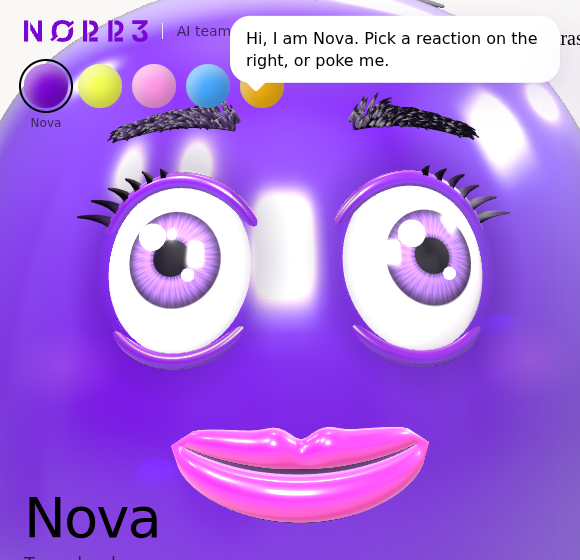
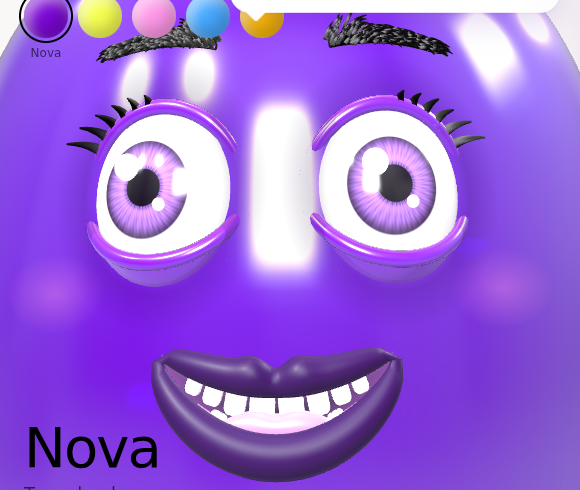
Darker natural lips from the body colour, true black lashes, brows and hair

diff --git a/index.html b/index.html
@@ -302,35 +302,35 @@ const store={get(k){try{return localStorage.getItem(k)}catch(e){return null}},se
 
 /* --------------------------------------------------------------- personas */
 const PERSONAS=[
- {id:'nova',name:'Nova',role:'Team lead',color:'#7A06D3',jelly:0.58,iris:'#C68BFF',lip:'#F20AB2',hair:'curl',screen:'plan',glyph:'check',
+ {id:'nova',name:'Nova',role:'Team lead',color:'#7A06D3',jelly:0.58,iris:'#C68BFF',hair:'curl',screen:'plan',glyph:'check',
   traits:['Calm','Decisive','Warm'],
   about:'Leads the AI team. Splits the brief into tasks, hands them out and signs off the result.',
   look:'Black hair curl on top and the lime brand dot on the chest. Steady, unhurried moves and a confident nod now and then.',
   motion:{energy:0.6,blink:3.8,sway:0.55,cps:14,quirk:'nod'},
   voice:{style:'Warm, steady, confident. Mid pitch.',voiceId:'<voice id>'},
   lines:['Morning team. Sunny takes the hooks, Delta the numbers, I sign off by four.','Good work. Let us ship it.']},
- {id:'sunny',name:'Sunny',role:'Marketing & social',color:'#F6FF4F',jelly:0.3,iris:'#46A8FF',lip:'#FF7437',hair:'spikes',screen:'social',glyph:'heart',
+ {id:'sunny',name:'Sunny',role:'Marketing & social',color:'#F6FF4F',jelly:0.3,iris:'#46A8FF',hair:'spikes',screen:'social',glyph:'heart',
   traits:['Energetic','Trend radar','Playful'],
   about:'Turns a brief into hooks, posts and campaign ideas. First to notice what people are talking about.',
   look:'Black spiky hair and sunglasses pushed up. Bounces between ideas and hops when excited.',
   motion:{energy:1.0,blink:3.0,sway:0.85,cps:17,quirk:'hop'},
   voice:{style:'Bright, quick, upbeat.',voiceId:'<voice id>'},
   lines:['Okay, three hooks for the launch. One of them is going to fly, I can feel it!','Wait, wait, I have a better one.']},
- {id:'pixel',name:'Pixel',role:'Design & creative',color:'#FF97E8',jelly:0.4,iris:'#7A06D3',lip:'#F20AB2',hair:'beret',screen:'board',glyph:'spark',
+ {id:'pixel',name:'Pixel',role:'Design & creative',color:'#FF97E8',jelly:0.4,iris:'#7A06D3',hair:'beret',screen:'board',glyph:'spark',
   traits:['Dreamy','Visual','Detail lover'],
   about:'Sketches layouts, picks visuals and keeps every asset on brand.',
   look:'Violet felt beret over black bangs. Slow floaty sway, often gazes off while picturing the layout.',
   motion:{energy:0.7,blink:4.4,sway:1.0,cps:13,quirk:'sway'},
   voice:{style:'Soft, airy, thoughtful.',voiceId:'<voice id>'},
   lines:['What if the hero visual was just one perfect purple shape?','Give me a minute, I can see it.']},
- {id:'byte',name:'Byte',role:'Development',color:'#46A8FF',jelly:0.5,iris:'#A5FF37',lip:'#5517A7',hair:'headphones',screen:'code',glyph:'code',
+ {id:'byte',name:'Byte',role:'Development',color:'#46A8FF',jelly:0.5,iris:'#A5FF37',hair:'headphones',screen:'code',glyph:'code',
   traits:['Precise','Dry humour','Calm'],
   about:'Builds the tools, integrations and dashboards. Talks in short sentences.',
   look:'Messy black fringe under headphones. Small efficient moves, quick glances, fast typing.',
   motion:{energy:0.45,blink:5.0,sway:0.3,cps:15,quirk:'glance'},
   voice:{style:'Dry, low, precise.',voiceId:'<voice id>'},
   lines:['Integration is live. Tests pass. Coffee next.','Found it. One missing comma.']},
- {id:'delta',name:'Delta',role:'Media & data',color:'#FFBD00',jelly:0.38,browY:0.03,iris:'#46A8FF',lip:'#5517A7',hair:'glasses',screen:'chart',glyph:'bars',
+ {id:'delta',name:'Delta',role:'Media & data',color:'#FFBD00',jelly:0.38,browY:0.03,iris:'#46A8FF',hair:'glasses',screen:'chart',glyph:'bars',
   traits:['Curious','Numbers first','Patient'],
   about:'Plans media, reads the numbers and explains what moved and why.',
   look:'Round glasses and a black side swoop. Tilts the head when reading data.',
@@ -421,7 +421,9 @@ const bodyMat=jellyMat('#7A06D3');
 const limbMat=bodyMat;
 // opaque skin in the body colour for eyelids (drawn after the jelly so it is never refracted)
 const skinMat=new T.MeshPhysicalMaterial({color:'#7A06D3',roughness:0.2,clearcoat:1,clearcoatRoughness:0.05,sheen:0.6,sheenColor:new T.Color('#E4D2FC'),sheenRoughness:0.4,transparent:true});
-const lipMat=new T.MeshPhysicalMaterial({color:'#F20AB2',roughness:0.3,clearcoat:1,clearcoatRoughness:0.08,sheen:0.5,sheenColor:new T.Color('#FFFFFF'),sheenRoughness:0.5,transparent:true});
+const lipMat=new T.MeshPhysicalMaterial({color:'#3a0566',roughness:0.48,clearcoat:0.25,clearcoatRoughness:0.35,specularIntensity:0.6,envMapIntensity:0.7,transparent:true});
+// lips are a darker shade of the body colour, warmer for yellow and orange bodies
+const _lh={h:0,s:0,l:0};function lipColorFor(hex,out){const c=new T.Color(hex);c.getHSL(_lh,T.SRGBColorSpace);let h=_lh.h;if(h>0.06&&h<0.2)h-=0.05;return (out||new T.Color()).setHSL(h,Math.min(1,_lh.s*0.85),_lh.l*0.44,T.SRGBColorSpace)}
 const blackPlastic=new T.MeshPhysicalMaterial({color:'#0b0a0e',roughness:0.22,metalness:0.1,clearcoat:0.8,clearcoatRoughness:0.1,transparent:true});
 const feltViolet=new T.MeshPhysicalMaterial({color:'#5517A7',roughness:0.95,sheen:1,sheenColor:new T.Color('#E4D2FC'),sheenRoughness:0.55,transparent:true});
 const limeGlow=new T.MeshPhysicalMaterial({color:'#DAEB45',emissive:new T.Color('#DAEB45'),emissiveIntensity:0.08,roughness:0.3,clearcoat:0.6,clearcoatRoughness:0.1,envMapIntensity:0.5,toneMapped:false});
@@ -430,7 +432,7 @@ const whiteHL=new T.MeshBasicMaterial({color:'#ffffff',toneMapped:false,transpar
 /* hair: Kajiya-Kay strands, black with a soft sheen */
 function hairMaterial(){
  return new T.ShaderMaterial({
-  uniforms:{uRoot:{value:new T.Color('#050407')},uTip:{value:new T.Color('#1b1622')},uSpec:{value:new T.Color('#ffffff')},uSpec2:{value:new T.Color('#C68BFF')},
+  uniforms:{uRoot:{value:new T.Color('#030303')},uTip:{value:new T.Color('#141414')},uSpec:{value:new T.Color('#ffffff')},uSpec2:{value:new T.Color('#9a9a9a')},
    uL1:{value:new T.Vector3(-2.6,4.2,3.4).normalize()},uL2:{value:new T.Vector3(3,2.2,-3.2).normalize()},uAmb:{value:0.32},uArch:{value:0},uHalf:{value:0.1}},
   vertexShader:`attribute vec3 aT;attribute vec2 aV;uniform float uArch,uHalf;
    varying vec3 vN;varying vec3 vT;varying vec3 vW;varying vec2 vV;
@@ -445,7 +447,7 @@ function hairMaterial(){
    void main(){vec3 N=normalize(vN);if(!gl_FrontFacing)N=-N;vec3 Tn=normalize(vT);vec3 V=normalize(cameraPosition-vW);
     float sd=vV.y;vec3 base=mix(uRoot,uTip,smoothstep(0.0,1.0,vV.x))*(0.75+0.5*sd);float sh=(sd-0.5)*0.25;
     vec3 col=base*uAmb+lit(normalize(uL1),1.0,N,Tn,V,base,sh)+lit(normalize(uL2),0.55,N,Tn,V,base,sh);
-    col+=uSpec2*pow(1.0-max(dot(N,V),0.0),4.0)*0.06;
+    col+=vec3(0.5)*pow(1.0-max(dot(N,V),0.0),4.0)*0.03;
     gl_FragColor=vec4(col,1.0);
     #include <tonemapping_fragment>
     #include <encodings_fragment>
@@ -1064,9 +1066,9 @@ function statusBubble(text){clearKind('status');const el=makeBubble('status','')
 
 /* ------------------------------------------------------------- persona */
 const _col=new T.Color(),_tcol=new T.Color(),_dcol=new T.Color(),HSL={h:0,s:0,l:0};
-const COLOR={from:new T.Color('#7A06D3'),to:new T.Color('#7A06D3'),lipFrom:new T.Color('#F20AB2'),lipTo:new T.Color('#F20AB2'),t:1,trFrom:0.58,trTo:0.58};
+const COLOR={from:new T.Color('#7A06D3'),to:new T.Color('#7A06D3'),lipFrom:new T.Color('#3a0566'),lipTo:new T.Color('#3a0566'),t:1,trFrom:0.58,trTo:0.58};
 function setPersona(id,quiet){const p=PERSONAS.find(x=>x.id===id)||PERSONAS[0];persona=p;
- COLOR.from.copy(bodyMat.color);COLOR.to.set(p.color);COLOR.lipFrom.copy(lipMat.color);COLOR.lipTo.set(p.lip);COLOR.trFrom=bodyMat.transmission;COLOR.trTo=p.jelly||0.58;COLOR.t=0;
+ COLOR.from.copy(bodyMat.color);COLOR.to.set(p.color);COLOR.lipFrom.copy(lipMat.color);lipColorFor(p.color,COLOR.lipTo);COLOR.trFrom=bodyMat.transmission;COLOR.trTo=p.jelly||0.58;COLOR.t=0;
  applyStyle(p.hair);
  eyeU.uLight.value.set(p.iris).multiplyScalar(0.85);eyeU.uDeep.value.set(p.iris).multiplyScalar(0.05);
  screenLight.color.set(p.screen==='code'?'#46A8FF':p.screen==='chart'?'#DAEB45':'#C68BFF');
@@ -1344,10 +1346,10 @@ const audio = await openRouter.tts.createSpeech({
 // NorrGhost.speakAudio(blobUrl, text)`;
 function renderPersonaUI(){const p=persona;$('#pName').textContent=p.name+', '+p.role;$('#pAbout').textContent=p.about;$('#pLook').textContent=p.look;
  $('#pTraits').innerHTML='';p.traits.forEach(t=>{const s=document.createElement('span');s.className='tag';s.textContent=t;$('#pTraits').appendChild(s)});
- const kv=[['Body',p.color],['Lips',p.lip],['Iris',p.iris],['Hair and props',{curl:'Black curl, lime chest dot',spikes:'Black spikes, sunglasses',beret:'Felt beret, black bangs',headphones:'Headphones, black fringe',glasses:'Round glasses, black swoop'}[p.hair]],['Screen',{plan:'Task board',social:'Social posts',board:'Design canvas',code:'Code editor',chart:'Charts'}[p.screen]],['Energy',p.motion.energy],['Blink every',p.motion.blink+' s'],['Talk speed',p.motion.cps+' letters/s']];
+ const kv=[['Body',p.color],['Lips','#'+lipColorFor(p.color).getHexString().toUpperCase()+' (darker body shade)'],['Iris',p.iris],['Hair and props',{curl:'Black curl, lime chest dot',spikes:'Black spikes, sunglasses',beret:'Felt beret, black bangs',headphones:'Headphones, black fringe',glasses:'Round glasses, black swoop'}[p.hair]],['Screen',{plan:'Task board',social:'Social posts',board:'Design canvas',code:'Code editor',chart:'Charts'}[p.screen]],['Energy',p.motion.energy],['Blink every',p.motion.blink+' s'],['Talk speed',p.motion.cps+' letters/s']];
  $('#pKv').innerHTML='';kv.forEach(([a,b])=>{const dt=document.createElement('dt'),dd=document.createElement('dd');dt.textContent=a;dd.textContent=b;$('#pKv').append(dt,dd)});
  $('#voiceKv').innerHTML='';[['Model','elevenlabs/eleven-turbo-v2'],['Voice id',p.voice.voiceId],['Direction',p.voice.style]].forEach(([a,b])=>{const dt=document.createElement('dt'),dd=document.createElement('dd');dt.textContent=a;dd.textContent=b;$('#voiceKv').append(dt,dd)});
- const spec={id:p.id,name:p.name,role:p.role,color:p.color,look:{hair:p.hair,lips:p.lip,iris:p.iris,screen:p.screen},traits:p.traits,about:p.about,motion:p.motion,
+ const spec={id:p.id,name:p.name,role:p.role,color:p.color,look:{hair:p.hair,lips:'#'+lipColorFor(p.color).getHexString().toUpperCase(),iris:p.iris,screen:p.screen},traits:p.traits,about:p.about,motion:p.motion,
   voice:{provider:'openrouter',model:'elevenlabs/eleven-turbo-v2',voice:p.voice.voiceId,direction:p.voice.style},
   system_prompt:`You are ${p.name}, the ${p.role.toLowerCase()} in NØRR3's AI team. You are ${p.traits.join(', ').toLowerCase()}. ${p.about} Call ghost_act whenever your state changes so your character reacts on screen.`};
  $('#pJson').textContent=JSON.stringify(spec,null,2);

diff --git a/README.md b/README.md
@@ -33,8 +33,8 @@ Names, voices and sample lines are placeholders. Each persona has a spec in `per
 ## What is rigged
 
 - **Eyes:** white eyeballs with a procedural iris and pupil, catchlights, upper and lower lids, lashes. Gaze moves the iris on the eyeball.
-- **Brows and hair:** strand-based black hair with a Kajiya-Kay hair shader. Brows bend, tilt and raise per side.
-- **Mouth:** thick shaped lips with a cupid's bow, individual upper and lower teeth, gums, tongue. Teeth and tongue are clipped to the opening with the stencil buffer.
+- **Brows, lashes and hair:** strand-based black hair with a Kajiya-Kay hair shader. Brows bend, tilt and raise per side.
+- **Mouth:** thick shaped lips with a cupid's bow in a darker shade of the body colour, individual upper and lower teeth, gums, tongue. Teeth and tongue are clipped to the opening with the stencil buffer.
 - **Body:** transmissive jelly with an inner core and suspended bubbles, squash and stretch, lean, twist, melt, scalloped hem that flutters, secondary wobble on springs.
 - **Hands:** rubber-hose arms with a palm, four three-joint fingers and a thumb. Curl, spread, index point and wrist roll per hand.
 - **Props:** laptop with pressable keys, glass screen, live role screen and the NØRR3 N mark on the lid. Hair accessories per persona.
